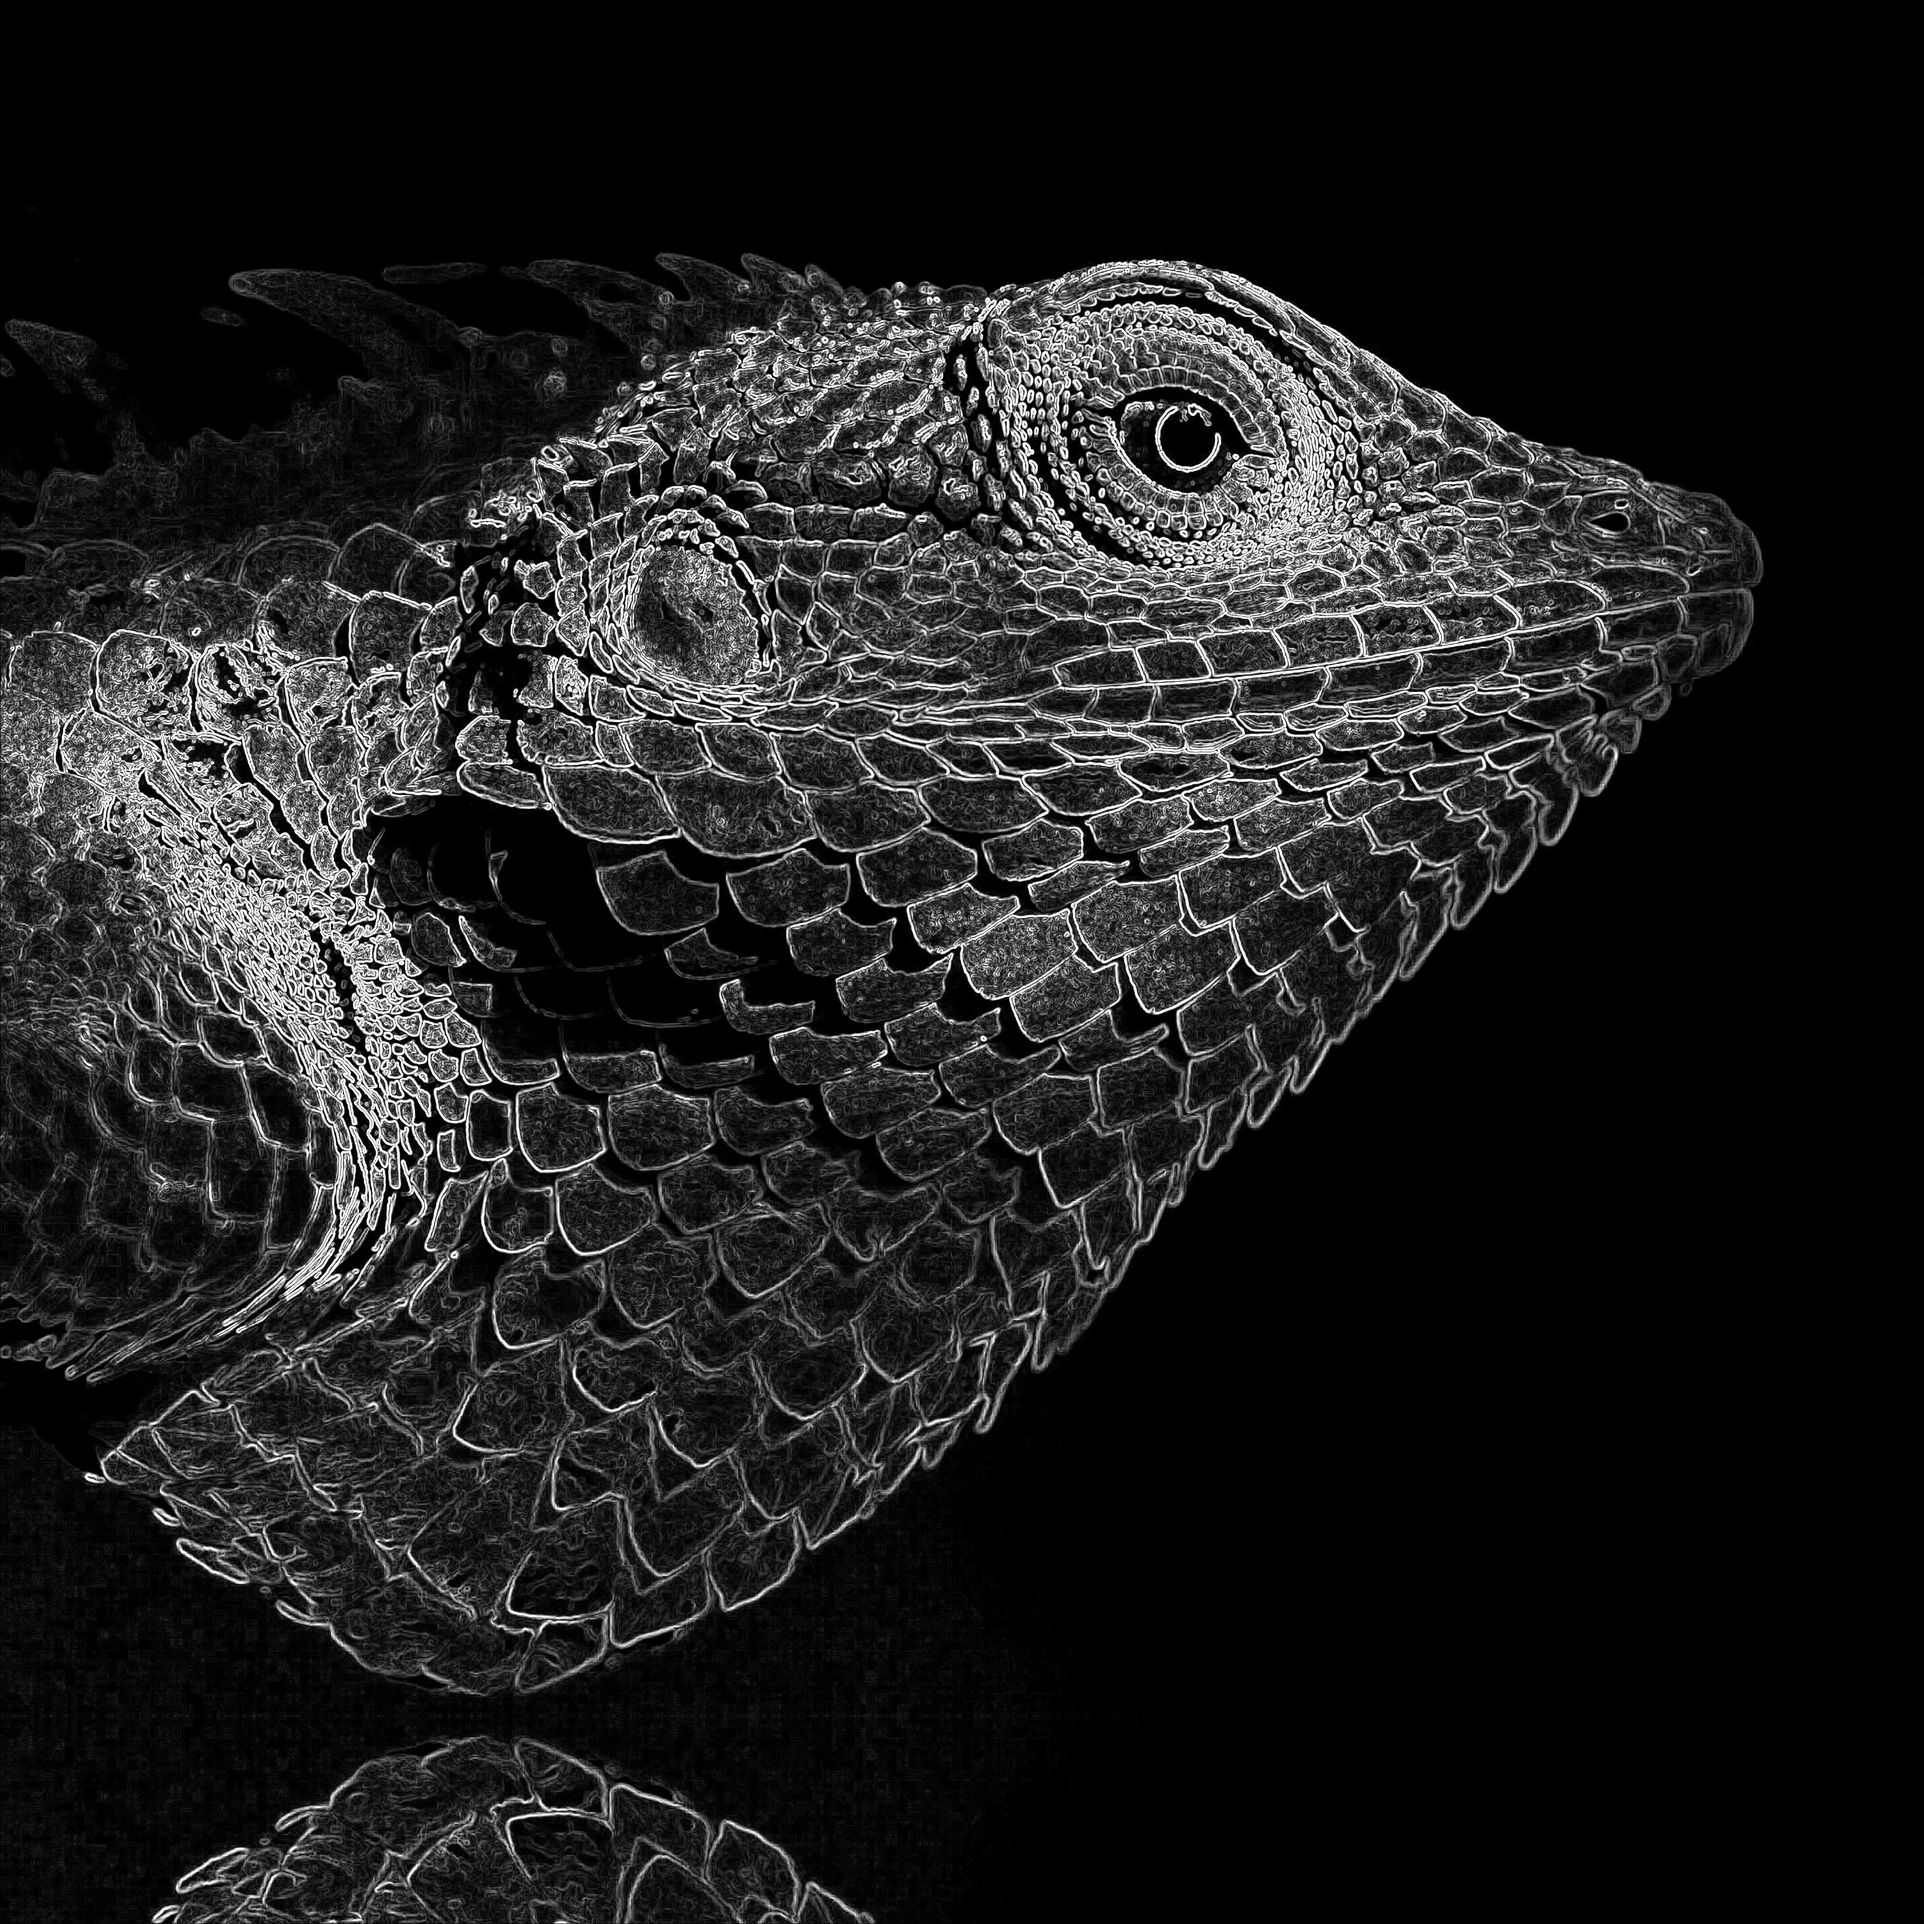
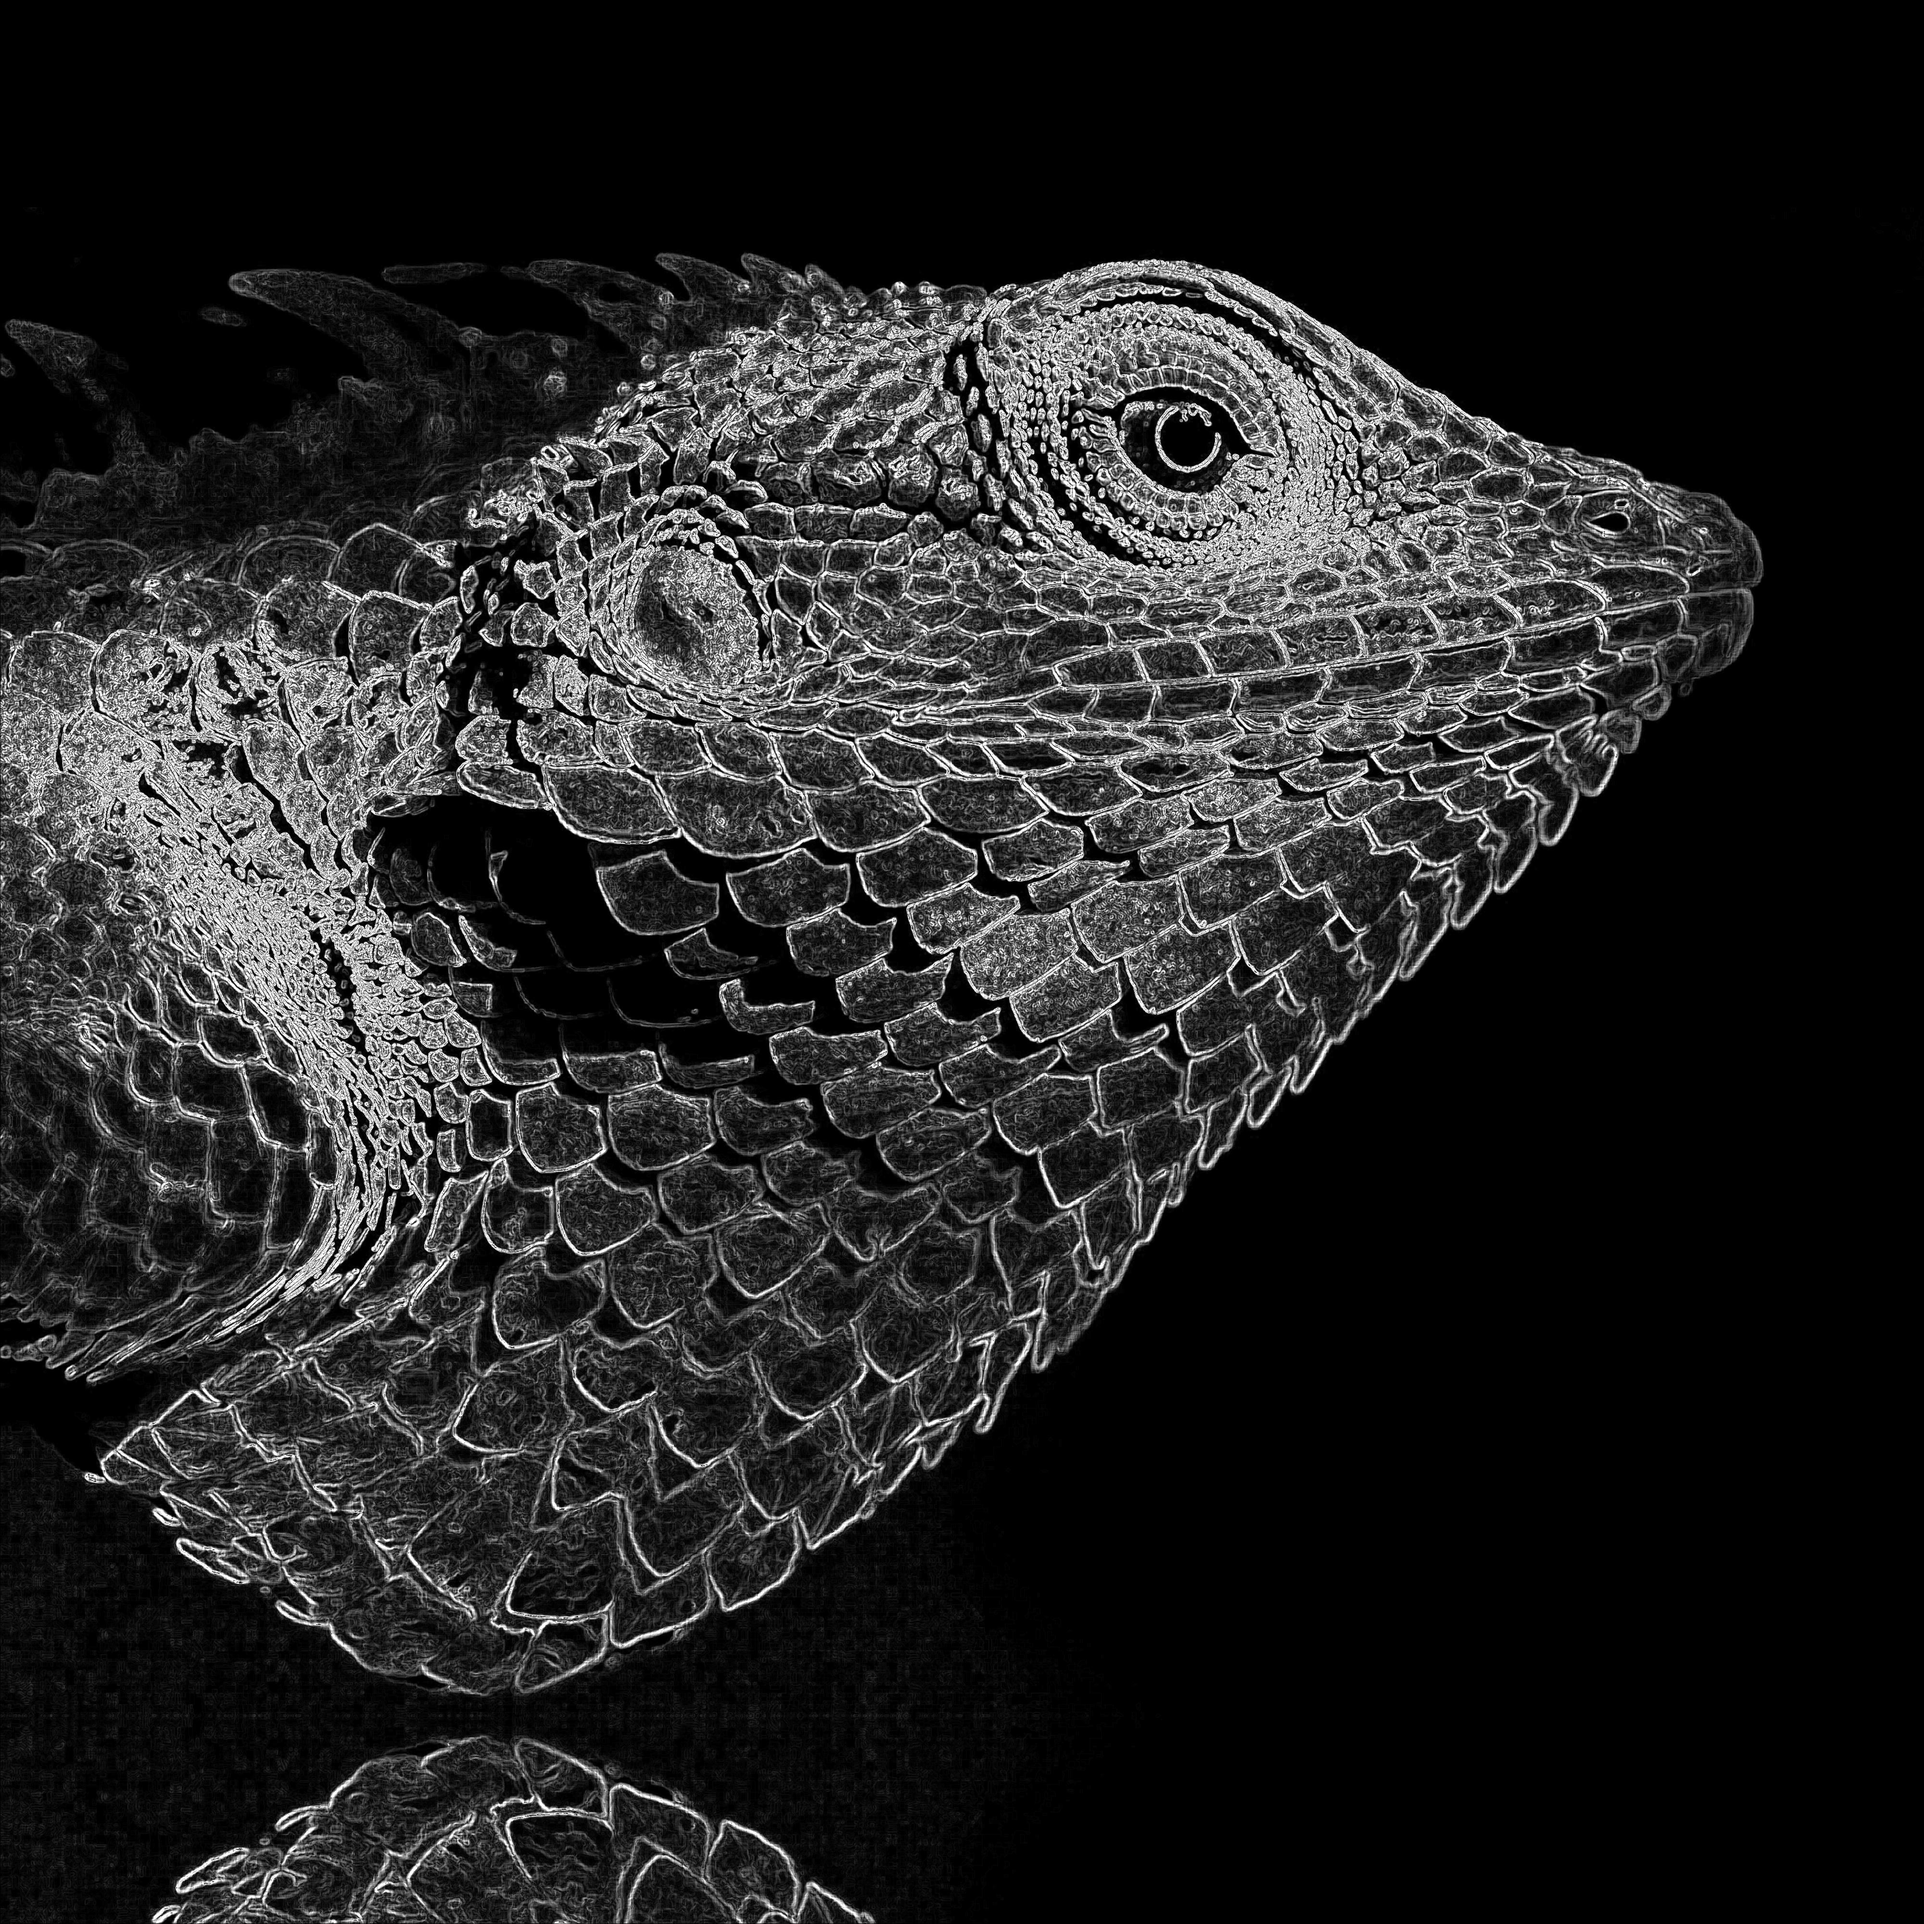
use ints instead of floats

diff --git a/w1_sobel/src/main.rs b/w1_sobel/src/main.rs
@@ -1,8 +1,8 @@
 use image::{io::Reader as ImageReader, ImageBuffer, Luma};
 use std::{env, time::Instant};
 
-const SOBEL_X: [[f64; 3]; 3] = [[-1.0, -2.0, -1.0], [0.0, 0.0, 0.0], [1.0, 2.0, 1.0]];
-const SOBEL_Y: [[f64; 3]; 3] = [[-1.0, 0.0, 1.0], [-2.0, 0.0, 2.0], [-1.0, 0.0, 1.0]];
+const SOBEL_X: [[i16; 3]; 3] = [[-1, -2, -1], [0, 0, 0], [1, 2, 1]];
+const SOBEL_Y: [[i16; 3]; 3] = [[-1, 0, 1], [-2, 0, 2], [-1, 0, 1]];
 
 //  cargo run -- img/house.jpg img/ball.jpg img/lizard.jpg
 fn main() {
@@ -39,22 +39,22 @@ fn sobel(img: &ImageBuffer<Luma<u8>, Vec<u8>>) -> ImageBuffer<Luma<u8>, Vec<u8>>
 
 fn conv_3x3(
     img: &ImageBuffer<Luma<u8>, Vec<u8>>,
-    mask: [[f64; 3]; 3],
+    mask: [[i16; 3]; 3],
 ) -> ImageBuffer<Luma<u8>, Vec<u8>> {
     let (w, h) = img.dimensions();
     let mut output = ImageBuffer::new(w, h);
 
     for x in 1..(w - 1) {
         for y in 1..(h - 1) {
-            let p1 = img.get_pixel(x - 1, y - 1).0[0] as f64 * mask[0][0];
-            let p2 = img.get_pixel(x - 1, y).0[0] as f64 * mask[0][1];
-            let p3 = img.get_pixel(x - 1, y + 1).0[0] as f64 * mask[0][2];
-            let p4 = img.get_pixel(x, y - 1).0[0] as f64 * mask[1][0];
-            let p5 = img.get_pixel(x, y).0[0] as f64 * mask[1][1];
-            let p6 = img.get_pixel(x, y + 1).0[0] as f64 * mask[1][2];
-            let p7 = img.get_pixel(x + 1, y - 1).0[0] as f64 * mask[2][0];
-            let p8 = img.get_pixel(x + 1, y).0[0] as f64 * mask[2][1];
-            let p9 = img.get_pixel(x + 1, y + 1).0[0] as f64 * mask[2][2];
+            let p1 = img.get_pixel(x - 1, y - 1).0[0] as i16 * mask[0][0];
+            let p2 = img.get_pixel(x - 1, y).0[0] as i16 * mask[0][1];
+            let p3 = img.get_pixel(x - 1, y + 1).0[0] as i16 * mask[0][2];
+            let p4 = img.get_pixel(x, y - 1).0[0] as i16 * mask[1][0];
+            let p5 = img.get_pixel(x, y).0[0] as i16 * mask[1][1];
+            let p6 = img.get_pixel(x, y + 1).0[0] as i16 * mask[1][2];
+            let p7 = img.get_pixel(x + 1, y - 1).0[0] as i16 * mask[2][0];
+            let p8 = img.get_pixel(x + 1, y).0[0] as i16 * mask[2][1];
+            let p9 = img.get_pixel(x + 1, y + 1).0[0] as i16 * mask[2][2];
             let val: u8 = (p1 + p2 + p3 + p4 + p5 + p6 + p7 + p8 + p9).abs() as u8;
             output.put_pixel(x, y, Luma([val]));
         }
